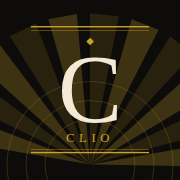
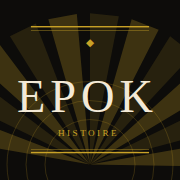
Renommage en Epok et écran d'ouverture
- nom Epok partout : titre, étiquette du téléphone, en-tête, pied de page,
  messages d'export et d'import ; clio.html devient epok.html
- la progression enregistrée sous l'ancienne clé clio.progression.v1 est
  reprise et réécrite sous epok.progression.v1 : rien n'est perdu
- logo redessiné : éventail Art déco, EPOK en capitales crème, HISTOIRE
  en lettrage espacé ; icône d'écran d'accueil en 180 et 512 px
- écran d'ouverture sur fond brun, logo en fondu montant puis effacement,
  en CSS pur (insensible au toucher, retiré du DOM une fois joué), avec
  variante sobre sous prefers-reduced-motion
- accent rétabli dans « une séance par jour »

Claude-Session: https://claude.ai/code/session_01XqXJfzsdn5oWpG7BJX3SYQ

diff --git a/epok.html b/epok.html
@@ -4,23 +4,23 @@
 <meta charset="utf-8">
 <meta name="viewport" content="width=device-width, initial-scale=1, viewport-fit=cover">
 <meta name="color-scheme" content="dark">
-<meta name="description" content="Clio — culture historique quotidienne : mini-cours et QCM, hors ligne.">
-<title>Clio</title>
+<meta name="description" content="Epok — culture historique quotidienne : mini-cours et QCM, hors ligne.">
+<title>Epok</title>
 
 <!-- Ajout a l'ecran d'accueil d'un telephone : nom court, ouverture en
      plein ecran sans barre de navigateur, icone dediee. -->
 <meta name="apple-mobile-web-app-capable" content="yes">
 <meta name="mobile-web-app-capable" content="yes">
 <meta name="apple-mobile-web-app-status-bar-style" content="black-translucent">
-<meta name="apple-mobile-web-app-title" content="Clio">
-<meta name="application-name" content="Clio">
+<meta name="apple-mobile-web-app-title" content="Epok">
+<meta name="application-name" content="Epok">
 <meta name="theme-color" content="#0d0c0a">
 <link rel="apple-touch-icon" href="apple-touch-icon.png">
 <link rel="icon" type="image/png" sizes="512x512" href="icone-512.png">
 
 <!--
   =====================================================================
-  CLIO — application personnelle de culture historique quotidienne
+  EPOK — application personnelle de culture historique quotidienne
   ---------------------------------------------------------------------
   Fichier unique, autonome, hors ligne. HTML + CSS + JS « vanilla ».
   Aucune dependance obligatoire : les polices Google Fonts sont
@@ -239,6 +239,34 @@ body[data-onglet="quiz"] .entete>div[style]{height:6px!important}
   font-style:italic;color:var(--creme-2);
 }
 
+/* --- Ecran d'ouverture ----------------------------------------------
+   Fond brun chaud, logo en fondu montant, puis effacement de l'ecran.
+   Tout est en CSS : si le JavaScript tarde, le fondu se joue quand meme.
+   pointer-events:none garantit qu'un ecran reste inoffensif meme si le
+   retrait par script echouait. */
+#ouverture{
+  position:fixed;inset:0;z-index:200;pointer-events:none;
+  display:flex;align-items:center;justify-content:center;
+  background:radial-gradient(circle at 50% 44%,
+              #4e3822 0%, #3a2a19 46%, #241a10 100%);
+  animation:ouv-sortie .6s ease-in 1.3s forwards;
+}
+#ouverture svg{
+  width:min(72vw,320px);height:auto;
+  animation:ouv-entree .8s cubic-bezier(.2,.75,.3,1) both;
+}
+@keyframes ouv-entree{
+  from{opacity:0;transform:scale(.9) translateY(10px)}
+  to  {opacity:1;transform:scale(1) translateY(0)}
+}
+@keyframes ouv-sortie{ to{opacity:0;visibility:hidden} }
+/* Mouvement reduit : on garde le fondu, on supprime le deplacement. */
+@media (prefers-reduced-motion:reduce){
+  #ouverture{animation:ouv-sortie .3s linear .3s forwards}
+  #ouverture svg{animation:ouv-entree .3s linear both}
+  @keyframes ouv-entree{from{opacity:0}to{opacity:1}}
+}
+
 /* --- Croquis : cartes et schemas (SVG inline) ------------------------
    Figure encadree, fond parchemin, qui tranche volontairement sur le
    theme sombre : effet << carte depliee sur la table >>. Le trace est
@@ -411,14 +439,54 @@ select{width:100%}
   </defs>
 </svg>
 
+<!-- Ecran d'ouverture : le logo monte en fondu sur un fond brun, puis
+     s'efface. Purement decoratif, donc masque aux lecteurs d'ecran et
+     insensible au toucher ; il est retire du DOM une fois joue. -->
+<div id="ouverture" aria-hidden="true">
+  <svg viewBox="0 0 512 512" focusable="false">
+    <defs>
+      <!-- Demi-disque : l'eventail s'arrete net sur sa base, jamais sur le
+           bord du cadre. -->
+      <clipPath id="ouv-demi-disque">
+        <path d="M146,410 A110,110 0 0 1 366,410 Z"/>
+      </clipPath>
+    </defs>
+    <g clip-path="url(#ouv-demi-disque)">
+      <path d="M256,410 L56.1,403.0 L59.9,370.5 Z" fill="#c9a227" opacity="0.38"/>
+      <path d="M256,410 L63.5,355.9 L74.9,325.2 Z" fill="#c9a227" opacity="0.2"/>
+      <path d="M256,410 L81.8,311.8 L100.1,284.7 Z" fill="#c9a227" opacity="0.38"/>
+      <path d="M256,410 L110.0,273.3 L134.2,251.3 Z" fill="#c9a227" opacity="0.2"/>
+      <path d="M256,410 L146.5,242.6 L175.3,227.0 Z" fill="#c9a227" opacity="0.38"/>
+      <path d="M256,410 L189.2,221.5 L220.9,213.1 Z" fill="#c9a227" opacity="0.2"/>
+      <path d="M256,410 L235.8,211.0 L268.6,210.4 Z" fill="#c9a227" opacity="0.38"/>
+      <path d="M256,410 L283.5,211.9 L315.5,219.0 Z" fill="#c9a227" opacity="0.2"/>
+      <path d="M256,410 L329.6,224.0 L359.0,238.6 Z" fill="#c9a227" opacity="0.38"/>
+      <path d="M256,410 L371.6,246.8 L396.7,267.8 Z" fill="#c9a227" opacity="0.2"/>
+      <path d="M256,410 L406.9,278.8 L426.3,305.2 Z" fill="#c9a227" opacity="0.38"/>
+      <path d="M256,410 L433.7,318.3 L446.3,348.5 Z" fill="#c9a227" opacity="0.2"/>
+      <path d="M256,410 L450.4,363.0 L455.5,395.4 Z" fill="#c9a227" opacity="0.38"/>
+      <circle cx="256" cy="410" r="40" fill="none" stroke="#c9a227" stroke-width="1.8" opacity=".45"/>
+      <circle cx="256" cy="410" r="70" fill="none" stroke="#c9a227" stroke-width="1.8" opacity=".45"/>
+      <circle cx="256" cy="410" r="100" fill="none" stroke="#c9a227" stroke-width="1.8" opacity=".45"/>
+    </g>
+    <rect x="78" y="90" width="356" height="4" fill="#c9a227"/>
+    <rect x="78" y="102" width="356" height="1.6" fill="#c9a227" opacity=".7"/>
+    <rect x="78" y="408" width="356" height="1.6" fill="#c9a227" opacity=".7"/>
+    <rect x="78" y="416" width="356" height="4" fill="#c9a227"/>
+    <text x="256" y="142" text-anchor="middle" font-family="Georgia,serif" font-size="26" fill="#c9a227">&#9670;</text>
+    <text x="249" y="252" text-anchor="middle" font-family="Georgia,'Times New Roman',serif" font-size="118" letter-spacing="14" fill="#f3e9d6">EPOK</text>
+    <text x="252" y="298" text-anchor="middle" font-family="Georgia,serif" font-size="22" letter-spacing="8" fill="#f3e9d6" opacity=".85">HISTOIRE</text>
+  </svg>
+</div>
+
 <div class="app">
 
   <header class="entete">
     <div class="filet-haut"></div><div class="filet-bas"></div>
     <div style="height:14px"></div>
     <div class="eventail" aria-hidden="true"></div>
-    <h1>CLIO</h1>
-    <p class="sous">Culture historique &#8226; une seance par jour</p>
+    <h1>EPOK</h1>
+    <p class="sous">Culture historique &#8226; une séance par jour</p>
     <div class="filet-bas"></div>
   </header>
 
@@ -431,7 +499,7 @@ select{width:100%}
   <!-- ================= ONGLET 3 : QUIZ ==================== -->
   <main id="vue-quiz" class="vue" role="tabpanel" aria-label="Quiz"></main>
 
-  <p class="pied">&#9670; CLIO &#9670;</p>
+  <p class="pied">&#9670; EPOK &#9670;</p>
 </div>
 
 <nav class="onglets" role="tablist" aria-label="Navigation principale">
@@ -8769,11 +8837,14 @@ const COURS = [
    lendemain. Modifiable dans les reglages de l'onglet Accueil. */
 const UNE_SEANCE_PAR_JOUR = true;
 
-/* Nombre de seances par cours, et donc duree d'une << semaine Clio >> :
+/* Nombre de seances par cours, et donc duree d'une << semaine Epok >> :
    une semaine se compte en seances, pas en jours de calendrier. */
 const SEANCES_PAR_COURS = 6;
 
-const CLE_STOCKAGE = "clio.progression.v1";
+const CLE_STOCKAGE = "epok.progression.v1";
+/* L'application s'est d'abord appelee Clio : on recupere la progression
+   enregistree sous l'ancienne cle, puis on la reecrit sous la nouvelle. */
+const CLE_ANCIENNE = "clio.progression.v1";
 
 /* Etat vierge. Toute lecture de l'etat passe par cet objet de reference,
    ce qui evite les undefined lors d'une montee de version. */
@@ -8793,14 +8864,18 @@ let ETAT = chargerEtat();
 function chargerEtat(){
   const base = etatVierge();
   try{
-    const brut = localStorage.getItem(CLE_STOCKAGE);
+    let brut = localStorage.getItem(CLE_STOCKAGE);
+    if(!brut){
+      brut = localStorage.getItem(CLE_ANCIENNE);
+      if(brut) localStorage.setItem(CLE_STOCKAGE, brut);
+    }
     if(!brut) return base;
     const lu = JSON.parse(brut);
     if(!lu || typeof lu !== "object") return base;
     return fusionnerEtat(base, lu);
   }catch(e){
     // localStorage indisponible (navigation privee, fichier local bride...)
-    console.warn("Clio : progression illisible, on repart d'un etat vierge.", e);
+    console.warn("Epok : progression illisible, on repart d'un etat vierge.", e);
     return base;
   }
 }
@@ -8822,7 +8897,7 @@ function sauverEtat(){
     localStorage.setItem(CLE_STOCKAGE, JSON.stringify(ETAT));
     return true;
   }catch(e){
-    console.warn("Clio : sauvegarde impossible.", e);
+    console.warn("Epok : sauvegarde impossible.", e);
     return false;
   }
 }
@@ -9028,7 +9103,7 @@ function rendreAccueil(){
   parts.push(`<div class="carte">
     <h3>Rythme</h3>
     <p class="secondaire" style="margin-bottom:8px">
-      Une semaine Clio se compte en séances, non en jours : <strong>${faitesCoursCourant} séance(s) sur ${SEANCES_PAR_COURS}</strong>
+      Une semaine Epok se compte en séances, non en jours : <strong>${faitesCoursCourant} séance(s) sur ${SEANCES_PAR_COURS}</strong>
       pour la semaine en cours. Un jour oublié ne se rattrape pas, on reprend simplement à la séance suivante.
     </p>
     ${jauge(faitesCoursCourant, SEANCES_PAR_COURS)}
@@ -9685,12 +9760,12 @@ document.querySelectorAll(".onglets button").forEach(b => {
 /* ---------- Export / import ---------- */
 
 function paquetExport(){
-  return JSON.stringify({ app:"clio", version:1, exporte:new Date().toISOString(), etat:ETAT }, null, 2);
+  return JSON.stringify({ app:"epok", version:1, exporte:new Date().toISOString(), etat:ETAT }, null, 2);
 }
 
 function exporterFichier(){
   const texte = paquetExport();
-  const nom = "clio-progression-" + aujourdhui() + ".json";
+  const nom = "epok-progression-" + aujourdhui() + ".json";
   /* Deux contextes possibles :
      - fichier ouvert depuis le disque : un lien <a download> suffit ;
      - page publiee sur claude.ai : le lien y est sans effet, il faut
@@ -9738,7 +9813,7 @@ function afficherJson(){
 function zoneImportTexte(){
   const z = document.getElementById("zone-json");
   if(!z) return;
-  z.innerHTML = `<p class="minuscule">Collez ici un export Clio, puis validez.</p>
+  z.innerHTML = `<p class="minuscule">Collez ici un export Epok, puis validez.</p>
     <textarea id="json-import" style="width:100%;min-height:150px;background:var(--noir-3);color:var(--creme);
       border:1px solid var(--laiton);padding:10px;font-size:12px;font-family:monospace"></textarea>
     <div class="saut"></div>
@@ -9751,7 +9826,7 @@ function appliquerImport(texte){
   catch(e){ return avisAccueil("Import impossible : ce n’est pas un JSON valide.", false); }
   const donnees = (lu && lu.etat) ? lu.etat : lu;
   if(!donnees || typeof donnees !== "object" || (!donnees.cours && !donnees.historique)){
-    return avisAccueil("Import impossible : ce fichier ne ressemble pas à une progression Clio.", false);
+    return avisAccueil("Import impossible : ce fichier ne ressemble pas à une progression Epok.", false);
   }
   if(!confirm("Remplacer la progression actuelle par celle du fichier ?")) return;
   ETAT = fusionnerEtat(etatVierge(), donnees);
@@ -9773,6 +9848,13 @@ function avisAccueil(texte, ok){
 
 /* ---------- Demarrage ---------- */
 rendre();
+
+/* L'ecran d'ouverture a fini son fondu : on le retire du DOM plutot que
+   de le laisser, invisible, par-dessus la page. */
+(function(){
+  const ouverture = document.getElementById("ouverture");
+  if(ouverture) setTimeout(() => ouverture.remove(), 2200);
+})();
 </script>
 </body>
 </html>
